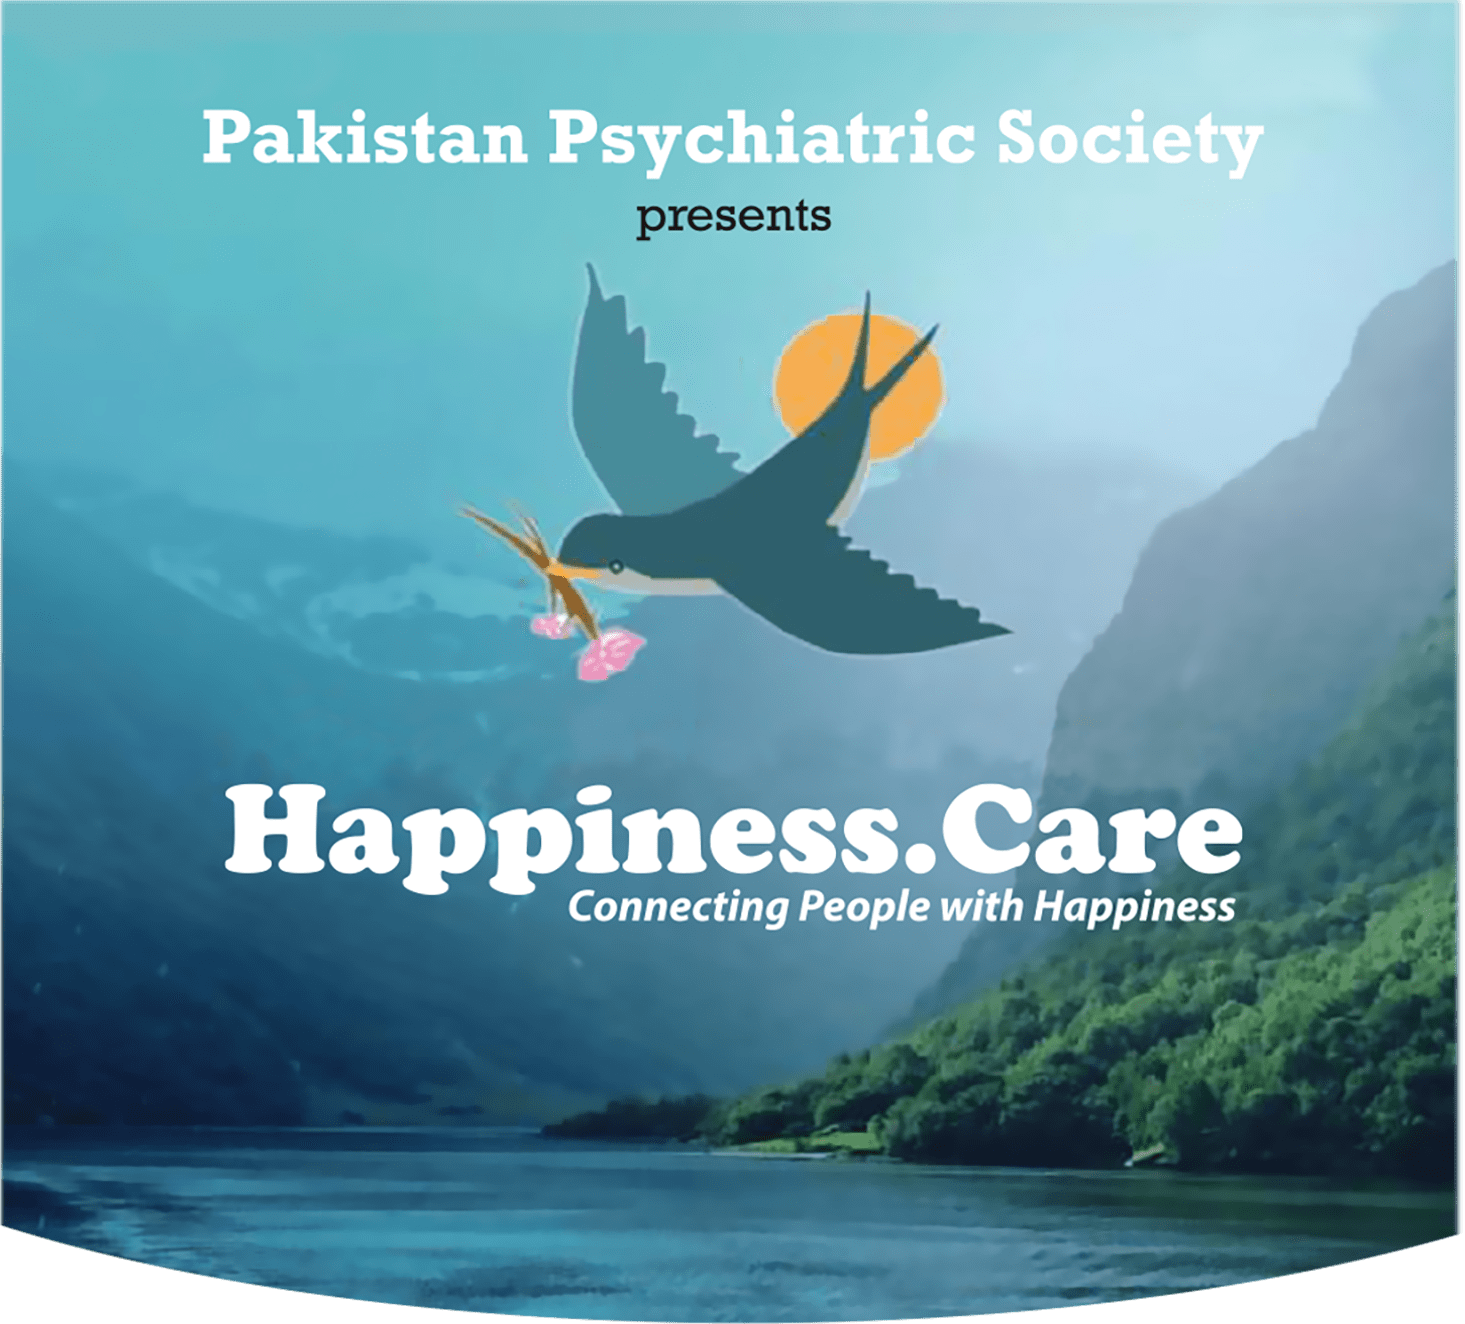
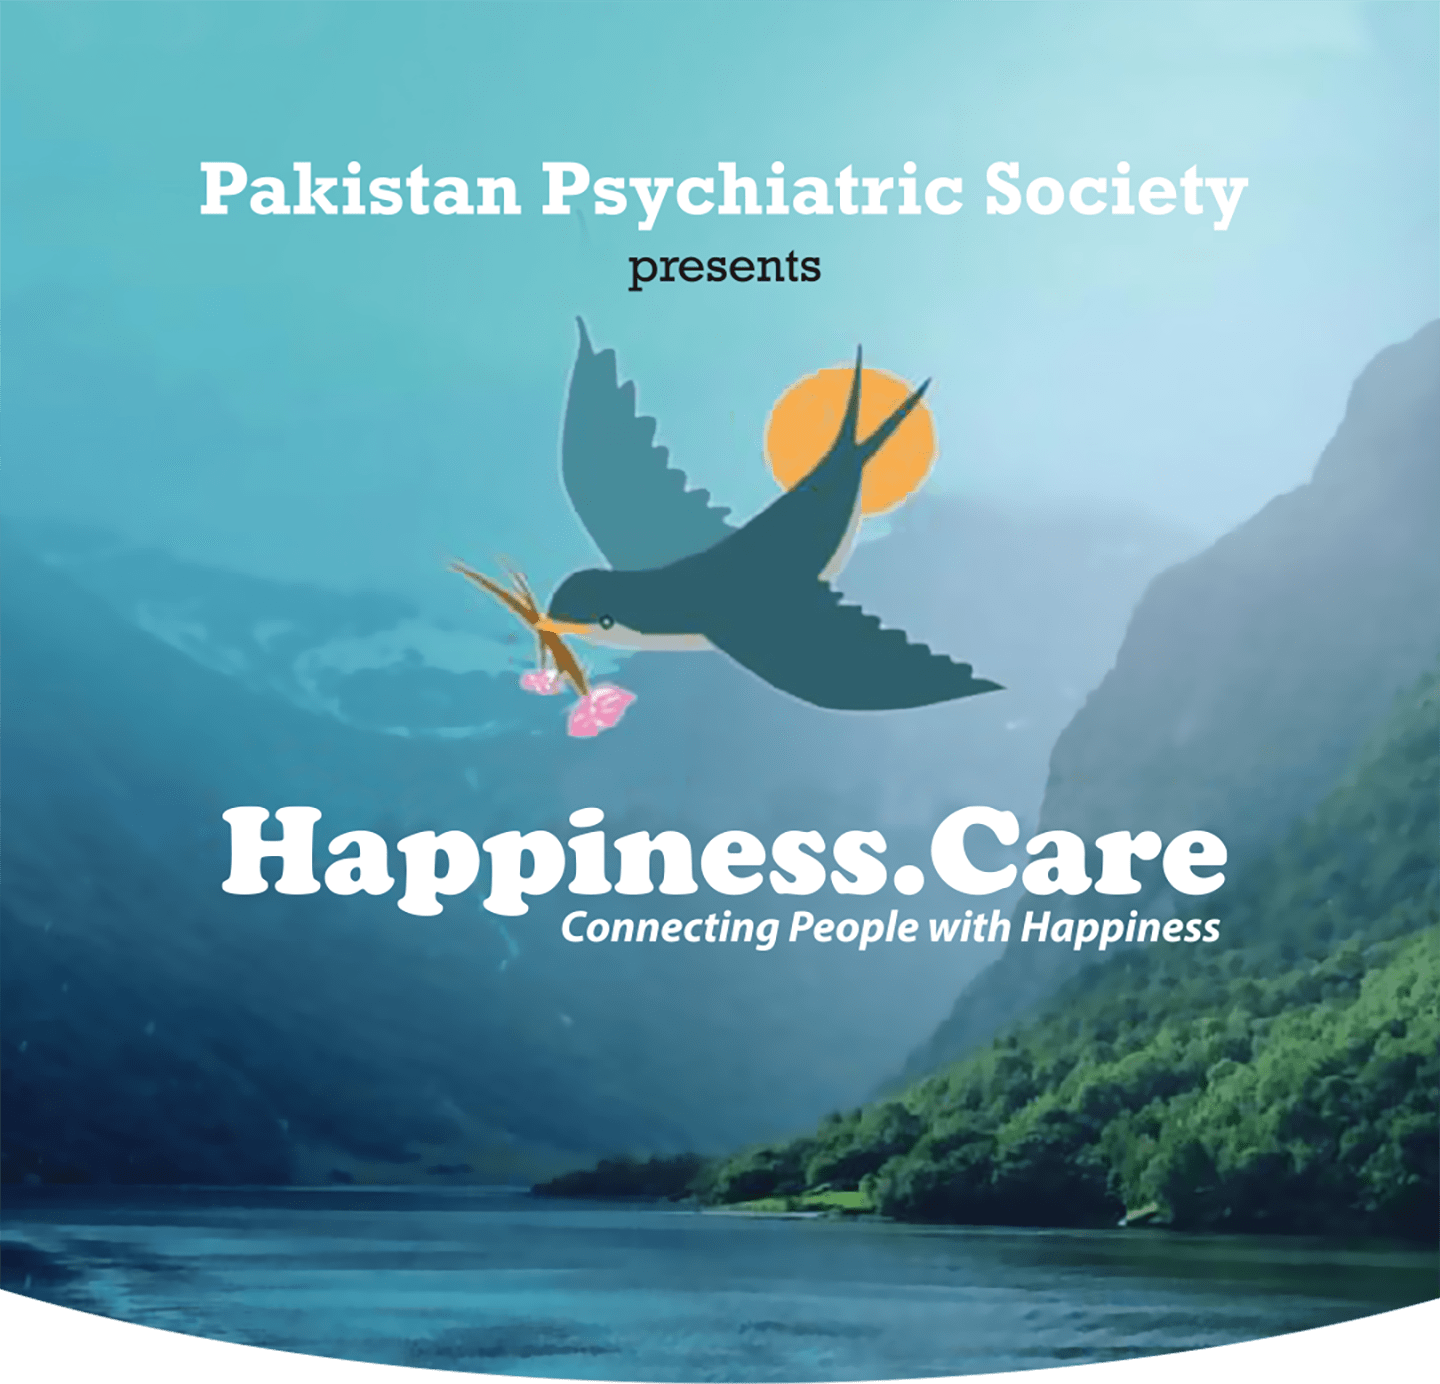
login image issue resolved

diff --git a/ExampleApp/src/screens/login/Login.js b/ExampleApp/src/screens/login/Login.js
@@ -16,7 +16,7 @@ import AsyncStorage from '@react-native-community/async-storage';
 import { Roles } from '../../Configs';
 const windowHeight = Dimensions.get('window').height;
 // let averageHeight = windowHeight/2 + 30
-let averageHeight = windowHeight / 2
+let averageHeight = windowHeight / 2 
 
 class Login extends Component {
   state = { email: '', password: '', showLoader: false, hidePassword: true };
@@ -130,7 +130,7 @@ class Login extends Component {
             }]}>
               <View style={{height:averageHeight ,width:'100%'}} >
                 <Image
-                  style={[CommonStyles.container, { resizeMode: 'cover', height: '100%', width: '100%' }]}
+                  style={[CommonStyles.container, { resizeMode: 'stretch', height: '100%', width: '100%' }]}
                   source={require('../../assets/img/loginbg.png')} />
               </View>
               <View style={{ flex: 1, flexDirection: 'column' ,marginTop:10 }} >
